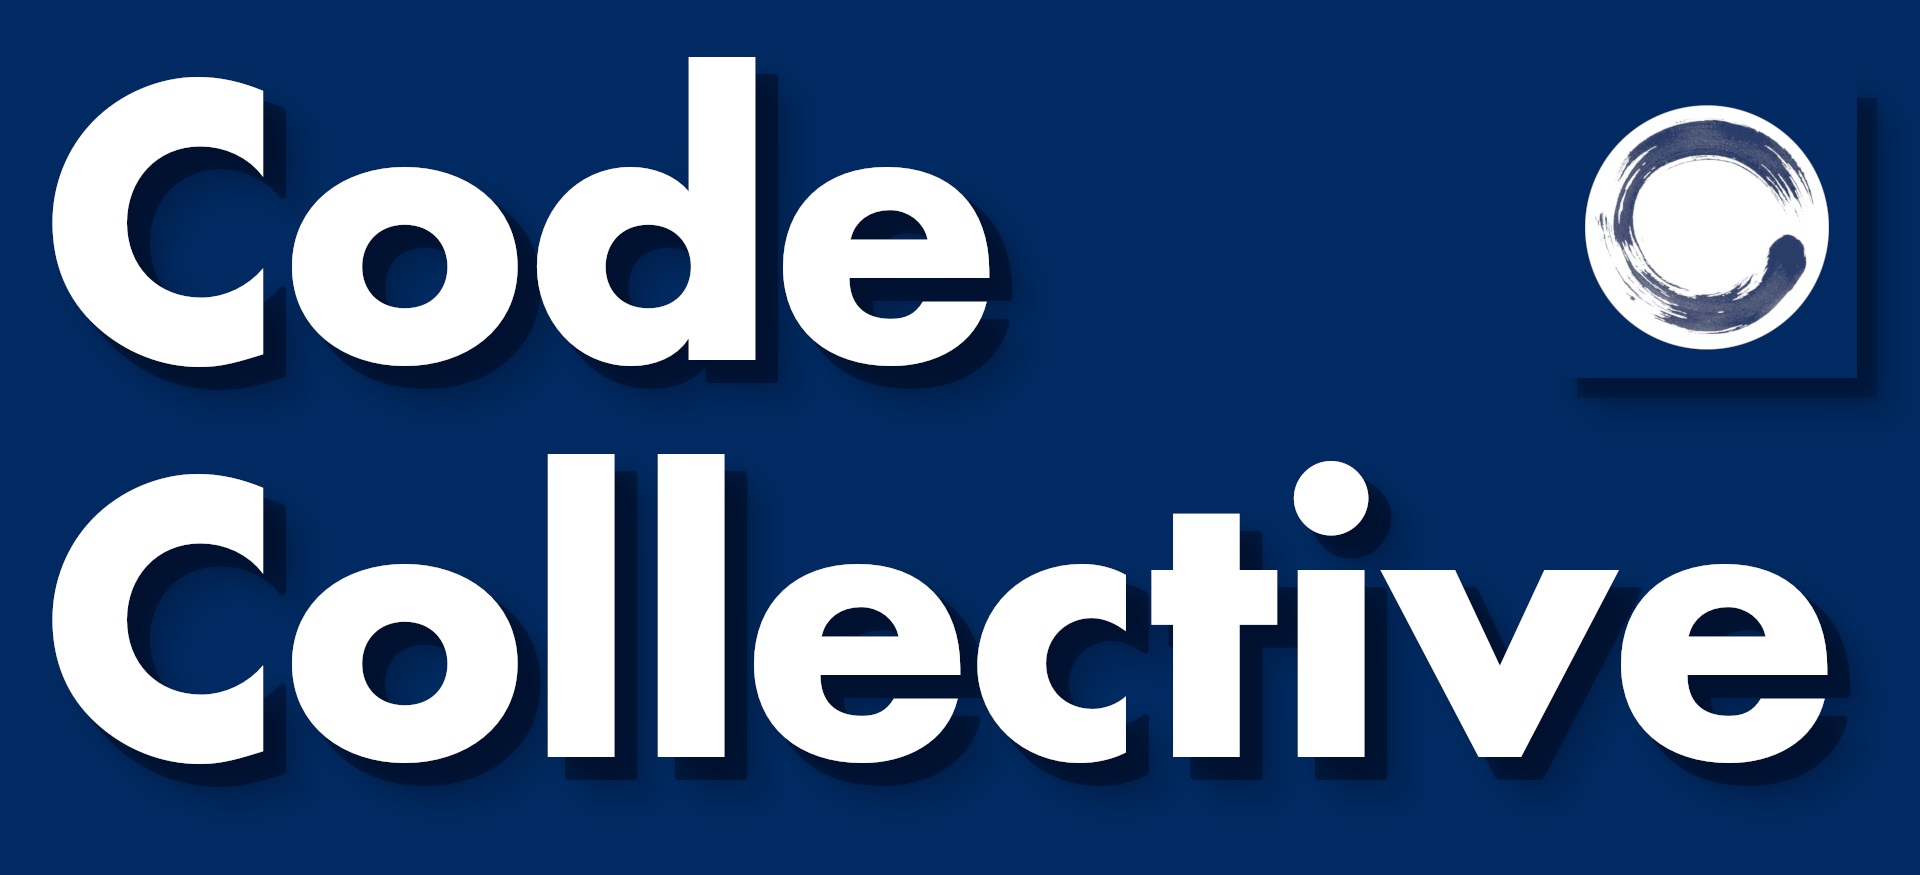
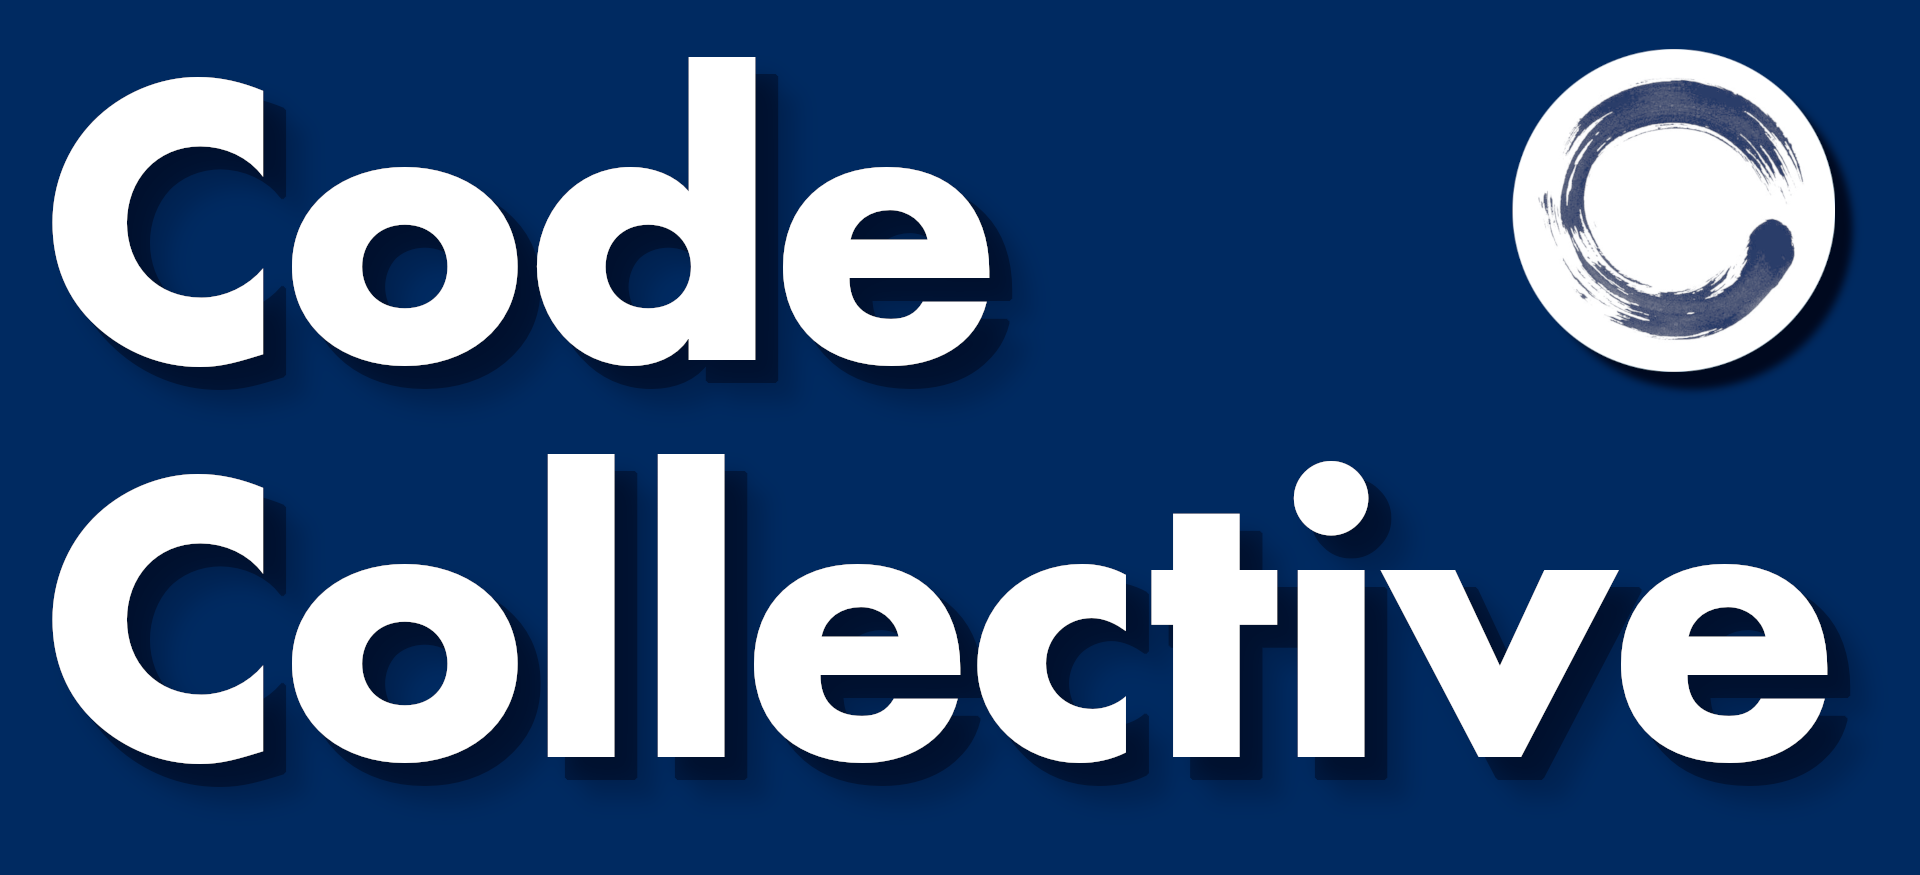
adds event source

Changed region(s): [[0.7812, 0.0309, 1.0, 0.4629]]

diff --git a/simplecalendar.html b/simplecalendar.html
@@ -84,6 +84,40 @@
         font-size: 0.95rem;
         color: var(--muted);
       }
+      .city-bar {
+        display: flex;
+        flex-wrap: wrap;
+        align-items: center;
+        gap: 0.65rem;
+        margin: 1rem 0 0.5rem;
+      }
+      .city-chip {
+        display: inline-flex;
+        align-items: center;
+        gap: 0.4rem;
+        background: rgba(255, 255, 255, 0.08);
+        border: 1px solid rgba(255, 255, 255, 0.15);
+        border-radius: 999px;
+        padding: 0.35rem 0.85rem;
+        font-weight: 600;
+      }
+      .city-btn {
+        border: 1px solid rgba(255, 255, 255, 0.5);
+        background: transparent;
+        color: var(--fg);
+        border-radius: 999px;
+        padding: 0.35rem 0.9rem;
+        font-size: 0.95rem;
+        cursor: pointer;
+        transition: background 0.15s ease, transform 0.1s ease;
+      }
+      .city-btn:hover,
+      .city-btn:focus {
+        background: rgba(255, 255, 255, 0.12);
+      }
+      .city-btn:active {
+        transform: translateY(1px);
+      }
       .date-head {
         margin: 2rem 0 1rem;
         padding-top: 0.5rem;
@@ -188,6 +222,94 @@
         color: inherit;
         cursor: default;
       }
+      .city-modal {
+        position: fixed;
+        inset: 0;
+        display: none;
+        align-items: center;
+        justify-content: center;
+        z-index: 999;
+      }
+      .city-modal.open {
+        display: flex;
+      }
+      .city-modal__backdrop {
+        position: absolute;
+        inset: 0;
+        background: rgba(0, 0, 0, 0.65);
+        backdrop-filter: blur(6px);
+      }
+      .city-modal__dialog {
+        position: relative;
+        z-index: 1;
+        background: var(--card);
+        border: 1px solid rgba(255, 255, 255, 0.15);
+        border-radius: 16px;
+        padding: 1.25rem 1.5rem;
+        width: min(460px, 92vw);
+        box-shadow: 0 18px 30px rgba(0, 0, 0, 0.35);
+      }
+      .city-modal__title {
+        margin: 0 0 0.4rem;
+        font-size: 1.35rem;
+      }
+      .city-modal__hint {
+        margin: 0 0 1rem;
+        color: var(--muted);
+        font-size: 0.95rem;
+      }
+      .city-modal__label {
+        display: block;
+        font-weight: 600;
+        margin-bottom: 0.35rem;
+      }
+      .city-modal__select {
+        width: 100%;
+        border-radius: 10px;
+        border: 1px solid rgba(255, 255, 255, 0.25);
+        background: rgba(0, 0, 0, 0.25);
+        color: var(--fg);
+        padding: 0.5rem 0.65rem;
+        font-size: 1rem;
+      }
+      .city-modal__actions {
+        margin-top: 1.2rem;
+        display: flex;
+        justify-content: flex-end;
+        gap: 0.6rem;
+      }
+      .city-modal__close {
+        position: absolute;
+        top: 0.35rem;
+        right: 0.35rem;
+        border: none;
+        background: transparent;
+        color: var(--fg);
+        font-size: 1.25rem;
+        cursor: pointer;
+      }
+      .btn-ghost,
+      .btn-primary {
+        border-radius: 10px;
+        padding: 0.5rem 0.85rem;
+        font-size: 0.95rem;
+        cursor: pointer;
+        border: 1px solid transparent;
+      }
+      .btn-ghost {
+        background: transparent;
+        border-color: rgba(255, 255, 255, 0.25);
+        color: var(--fg);
+      }
+      .btn-ghost:hover,
+      .btn-primary:hover {
+        filter: brightness(1.1);
+      }
+      .btn-primary {
+        background: #fff;
+        color: #0c2147;
+        font-weight: 700;
+      }
     </style>
   </head>
   <body>
@@ -205,11 +327,38 @@
         <h1>Upcoming Events</h1>
         <div id="status" class="status" aria-live="polite">Loading events…</div>
       </header>
+      <div class="city-bar">
+        <span class="city-chip">Showing <span id="currentCityLabel">Baltimore</span></span>
+        <button type="button" class="city-btn" id="openCityModal">Change city</button>
+      </div>
       <div class="view-switch">
         <a id="cardsViewLink" href="/calendar_cards.html">Switch to cards view</a>
         <a id="calendarViewLink" href="/calendar.html?view=calendar">Switch to calendar view</a>
       </div>
       <main id="events"></main>
+    </div>
+    <div
+      id="cityModal"
+      class="city-modal"
+      role="dialog"
+      aria-modal="true"
+      aria-labelledby="cityModalTitle"
+      hidden
+    >
+      <div class="city-modal__backdrop" data-close-modal></div>
+      <div class="city-modal__dialog">
+        <button type="button" class="city-modal__close" aria-label="Close city selection" data-close-modal>
+          ×
+        </button>
+        <h2 id="cityModalTitle" class="city-modal__title">Choose your city</h2>
+        <p class="city-modal__hint">Pick the city whose tech events you want to see.</p>
+        <label for="citySelect" class="city-modal__label">City</label>
+        <select id="citySelect" class="city-modal__select"></select>
+        <div class="city-modal__actions">
+          <button type="button" class="btn-ghost" data-close-modal>Cancel</button>
+          <button type="button" class="btn-primary" id="applyCityBtn">Show events</button>
+        </div>
+      </div>
     </div>
 
     <script src="https://cdn.jsdelivr.net/npm/marked/marked.min.js"></script>
@@ -398,11 +547,148 @@
   </article>`;
       }
 
+      /* ---------- City helpers ---------- */
+      const CITY_OPTIONS = window.CALENDAR_CITY_OPTIONS || [
+        "baltimore",
+        "westvirginia",
+        "hawaii",
+        "dc",
+      ];
+      const CITY_DISPLAY_NAMES = window.CALENDAR_CITY_DISPLAY_NAMES || {
+        baltimore: "Baltimore",
+        westvirginia: "West Virginia",
+        hawaii: "Hawaii",
+        dc: "Washington, D.C.",
+      };
+      function getCityDisplayName(city) {
+        return (
+          CITY_DISPLAY_NAMES[city] ||
+          (city ? city.charAt(0).toUpperCase() + city.slice(1) : "Baltimore")
+        );
+      }
+
       /* ---------- URL parameter helpers ---------- */
       function getCityFromUrl() {
         const urlParams = new URLSearchParams(window.location.search);
         const city = urlParams.get('city');
-        return city || 'baltimore'; // Default to baltimore if no city specified
+        if (city && CITY_OPTIONS.includes(city)) return city;
+        return CITY_OPTIONS[0] || 'baltimore';
+      }
+      function setCityInUrl(city) {
+        const url = new URL(window.location.href);
+        url.searchParams.set("city", city);
+        window.history.replaceState({}, "", url);
+      }
+      function syncCardsLink(city) {
+        const link = document.getElementById("cardsViewLink");
+        if (!link) return;
+        const url = new URL(link.href || "/calendar_cards.html", window.location.href);
+        url.searchParams.set("city", city);
+        link.href = `${url.pathname}${url.search}`;
+      }
+      function syncCalendarLink(city) {
+        const link = document.getElementById("calendarViewLink");
+        if (!link) return;
+        const url = new URL(link.href || "/calendar.html", window.location.href);
+        url.searchParams.set("city", city);
+        link.href = `${url.pathname}${url.search}`;
+      }
+      function updateCityLabel(city) {
+        const label = document.getElementById("currentCityLabel");
+        if (label) {
+          label.textContent = getCityDisplayName(city);
+        }
+      }
+      function populateCitySelect(city) {
+        const select = document.getElementById("citySelect");
+        if (!select) return;
+        select.innerHTML = "";
+        CITY_OPTIONS.forEach((opt) => {
+          const option = document.createElement("option");
+          option.value = opt;
+          option.textContent = getCityDisplayName(opt);
+          select.appendChild(option);
+        });
+        select.value = city;
+      }
+
+      /* ---------- Modal controls ---------- */
+      function openCityModal() {
+        const modal = document.getElementById("cityModal");
+        if (!modal) return;
+        modal.classList.add("open");
+        modal.removeAttribute("hidden");
+        const select = document.getElementById("citySelect");
+        if (select) select.focus();
+      }
+      function closeCityModal() {
+        const modal = document.getElementById("cityModal");
+        if (!modal) return;
+        modal.classList.remove("open");
+        modal.setAttribute("hidden", "");
+      }
+      function bindCityModalControls() {
+        const openBtn = document.getElementById("openCityModal");
+        const applyBtn = document.getElementById("applyCityBtn");
+        const modal = document.getElementById("cityModal");
+        const select = document.getElementById("citySelect");
+        if (openBtn) openBtn.addEventListener("click", openCityModal);
+        if (applyBtn) {
+          applyBtn.addEventListener("click", () => {
+            if (!select) return;
+            const chosen = select.value;
+            if (!CITY_OPTIONS.includes(chosen)) return;
+            setCityInUrl(chosen);
+            updateCityLabel(chosen);
+            syncCardsLink(chosen);
+            syncCalendarLink(chosen);
+            loadAndRender();
+            closeCityModal();
+          });
+        }
+        if (modal) {
+          modal.addEventListener("click", (e) => {
+            if (e.target.dataset.closeModal !== undefined || e.target === modal) {
+              closeCityModal();
+            }
+          });
+        }
+        document.addEventListener("keydown", (e) => {
+          if (e.key === "Escape") closeCityModal();
+        });
+      }
+
+      /* ---------- Event toggle wiring ---------- */
+      let toggleBound = false;
+      function bindToggleHandlers() {
+        if (toggleBound) return;
+        const main = document.getElementById("events");
+        if (!main) return;
+        main.addEventListener("click", (e) => {
+          const btn = e.target.closest(".toggle-btn");
+          if (!btn) return;
+          const targetId = btn.getAttribute("data-toggle");
+          const panel = document.getElementById(targetId);
+          if (!panel) return;
+
+          const isOpen = panel.classList.toggle("open");
+          if (isOpen) {
+            panel.removeAttribute("hidden");
+            btn.setAttribute("aria-expanded", "true");
+            btn.textContent = "–";
+            btn.setAttribute("aria-label", "Hide details");
+            const img = panel.querySelector("img.event-image[data-src]");
+            if (img && !img.getAttribute("src")) {
+              img.setAttribute("src", img.getAttribute("data-src"));
+            }
+          } else {
+            panel.setAttribute("hidden", "");
+            btn.setAttribute("aria-expanded", "false");
+            btn.textContent = "+";
+            btn.setAttribute("aria-label", "Show details");
+          }
+        });
+        toggleBound = true;
       }
 
       /* ---------- Main render ---------- */
@@ -411,6 +697,10 @@
         const main = document.getElementById("events");
         try {
           const city = getCityFromUrl();
+          updateCityLabel(city);
+          populateCitySelect(city);
+          syncCardsLink(city);
+          syncCalendarLink(city);
           const endpoint = `/${city}/upcoming_events.json`;
           const res = await fetch(endpoint, {
             cache: "no-store",
@@ -460,33 +750,8 @@
           main.innerHTML = chunks.join("\n");
           statusEl.textContent = `${events.length} event${
             events.length === 1 ? "" : "s"
-          } loaded.`;
+          } loaded for ${getCityDisplayName(city)}.`;
 
-          // Toggle & lazy image
-          main.addEventListener("click", (e) => {
-            const btn = e.target.closest(".toggle-btn");
-            if (!btn) return;
-            const targetId = btn.getAttribute("data-toggle");
-            const panel = document.getElementById(targetId);
-            if (!panel) return;
-
-            const isOpen = panel.classList.toggle("open");
-            if (isOpen) {
-              panel.removeAttribute("hidden");
-              btn.setAttribute("aria-expanded", "true");
-              btn.textContent = "–";
-              btn.setAttribute("aria-label", "Hide details");
-              const img = panel.querySelector("img.event-image[data-src]");
-              if (img && !img.getAttribute("src")) {
-                img.setAttribute("src", img.getAttribute("data-src"));
-              }
-            } else {
-              panel.setAttribute("hidden", "");
-              btn.setAttribute("aria-expanded", "false");
-              btn.textContent = "+";
-              btn.setAttribute("aria-label", "Show details");
-            }
-          });
         } catch (err) {
           document.getElementById("events").innerHTML = "";
           document.getElementById("status").textContent =
@@ -494,13 +759,10 @@
         }
       }
 
-      document.addEventListener("DOMContentLoaded", loadAndRender);
       document.addEventListener("DOMContentLoaded", () => {
-        const link = document.getElementById("cardsViewLink");
-        if (link) {
-          const query = window.location.search || "";
-          link.setAttribute("href", `/calendar_cards.html${query}`);
-        }
+        bindToggleHandlers();
+        bindCityModalControls();
+        loadAndRender();
       });
     </script>
   </body>

diff --git a/baltimore/event_sources.py b/baltimore/event_sources.py
@@ -49,7 +49,8 @@ sources = {
         "https://www.eventbrite.com/o/rmi-107139765",
         "https://www.eventbrite.com/o/nachman-executive-consulting-77249254883",
         "https://www.eventbrite.com/o/vashtiblue-jewelry-studio-120729155482",
-        "https://www.eventbrite.com/o/baltimore-robotics-center-14997527925"
+        "https://www.eventbrite.com/o/baltimore-robotics-center-14997527925",
+        "https://www.eventbrite.com/o/fight-blight-bmore-18309938620"
 
     ],
     "Jotform":[